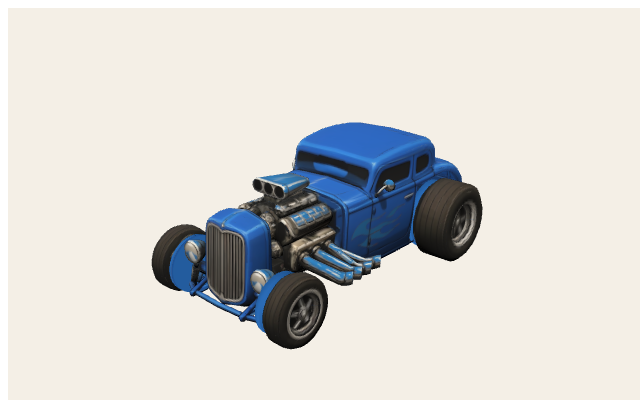
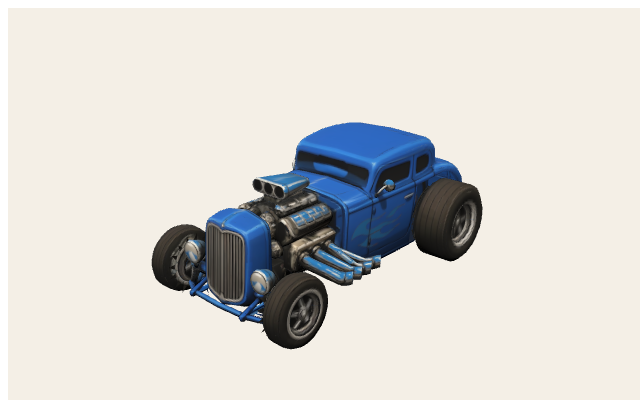
v0.3.239: Restore Donnerbüchse original hub faces behind segmented wheels
The blue well plugs did not match the pre-split car. Punch the welded tires fully and remount the original outboard hub/spoke BodyPaint faces just inboard of StockWheel so the rims still read as the old atlas.

diff --git a/tests/car-wheels.test.ts b/tests/car-wheels.test.ts
@@ -38,8 +38,6 @@ import {
 } from "../src/render/carWheels";
 import { collectWheelUvTriangles, shouldApplyGaragePaint } from "../src/render/loadCarGltf";
 import { groundContactMinY, stockWheelName } from "../src/render/stockWheels";
-import sharp from "sharp";
-import { isBlueBodyPixel } from "../src/render/paintAuthoredWhite";
 import { resolve } from "node:path";
 import { NodeIO } from "@gltf-transform/core";
 import { ALL_EXTENSIONS } from "@gltf-transform/extensions";
@@ -464,8 +462,12 @@ describe("stock wheels + Große Räder", () => {
         };
       });
     const leftover: Record<string, number> = {};
-    for (const h of hubs) leftover[h.name!] = 0;
-    const capXs: number[] = [];
+    const wellFaces: Record<string, { n: number; uMin: number; uMax: number; vMin: number; vMax: number }> = {};
+    for (const h of hubs) {
+      leftover[h.name!] = 0;
+      wellFaces[h.name!] = { n: 0, uMin: 1, uMax: 0, vMin: 1, vMax: 0 };
+    }
+    let syntheticCaps = 0;
     for (const mesh of doc.getRoot().listMeshes()) {
       if (mesh.getName()?.startsWith("StockWheel_")) continue;
       for (const prim of mesh.listPrimitives()) {
@@ -482,13 +484,14 @@ describe("stock wheels + Große Räder", () => {
           minZ = Math.min(minZ, v[2]!);
           maxZ = Math.max(maxZ, v[2]!);
         }
-        if (pos.getCount() === 66) {
-          capXs.push((minX + maxX) / 2);
+        if (pos.getCount() === 66 && maxX - minX < 0.5) {
+          syntheticCaps += 1;
           continue;
         }
-        if (maxZ - minZ < 3) continue;
         const idx = prim.getIndices();
+        const uv = prim.getAttribute("TEXCOORD_0");
         if (!idx) continue;
+        const compact = maxZ - minZ < 3;
         for (let t = 0; t < idx.getCount() / 3; t++) {
           const a = pos.getElement(idx.getScalar(t * 3), []);
           const b = pos.getElement(idx.getScalar(t * 3 + 1), []);
@@ -497,47 +500,33 @@ describe("stock wheels + Große Räder", () => {
           const cy = (a[1]! + b[1]! + c[1]!) / 3;
           const cz = (a[2]! + b[2]! + c[2]!) / 3;
           for (const h of hubs) {
-            const inner = Math.abs(h.cx) - h.hx;
-            if (Math.abs(cx) < inner - 0.01) continue;
-            if (Math.abs(cx - h.cx) <= h.hx && Math.abs(cy - h.cy) <= h.hy && Math.abs(cz - h.cz) <= h.hz) {
-              leftover[h.name!]! += 1;
+            const sign = Math.sign(h.cx);
+            const inYz = Math.abs(cy - h.cy) <= h.hy && Math.abs(cz - h.cz) <= h.hz;
+            const inX = Math.abs(cx - h.cx) <= h.hx + 0.04;
+            if (!inYz || !inX) continue;
+            if (sign * cx < sign * h.cx - 0.02) {
+              wellFaces[h.name!]!.n += 1;
+              if (uv) {
+                const u = uv.getElement(idx.getScalar(t * 3), []);
+                wellFaces[h.name!]!.uMin = Math.min(wellFaces[h.name!]!.uMin, u[0]!);
+                wellFaces[h.name!]!.uMax = Math.max(wellFaces[h.name!]!.uMax, u[0]!);
+                wellFaces[h.name!]!.vMin = Math.min(wellFaces[h.name!]!.vMin, u[1]!);
+                wellFaces[h.name!]!.vMax = Math.max(wellFaces[h.name!]!.vMax, u[1]!);
+              }
+              continue;
             }
+            if (compact) continue;
+            leftover[h.name!]! += 1;
           }
         }
       }
     }
-    const sortedCaps = capXs.sort((a, b) => a - b);
-    expect(sortedCaps).toHaveLength(4);
-    expect(sortedCaps[0]).toBeLessThan(-0.65);
-    expect(sortedCaps[1]).toBeLessThan(-0.65);
-    expect(sortedCaps[2]).toBeGreaterThan(0.65);
-    expect(sortedCaps[3]).toBeGreaterThan(0.65);
-    // Runtime comic materials are FrontSide — caps must wind toward the outside or they vanish.
-    for (const mesh of doc.getRoot().listMeshes()) {
-      if (mesh.getName()?.startsWith("StockWheel_")) continue;
-      for (const prim of mesh.listPrimitives()) {
-        const pos = prim.getAttribute("POSITION");
-        const idx = prim.getIndices();
-        if (!pos || !idx || pos.getCount() !== 66) continue;
-        const a = pos.getElement(idx.getScalar(0), []);
-        const b = pos.getElement(idx.getScalar(1), []);
-        const c = pos.getElement(idx.getScalar(2), []);
-        const nx = (b[1]! - a[1]!) * (c[2]! - a[2]!) - (b[2]! - a[2]!) * (c[1]! - a[1]!);
-        expect(Math.sign(nx), `cap at x=${a[0]}`).toBe(Math.sign(a[0]!));
-        const uv = prim.getAttribute("TEXCOORD_0")!.getElement(0, []);
-        const tex = prim.getMaterial()?.getBaseColorTexture()?.getImage();
-        expect(tex, "cap BodyPaint atlas").toBeTruthy();
-        const { data, info } = await sharp(Buffer.from(tex!)).ensureAlpha().raw().toBuffer({
-          resolveWithObject: true,
-        });
-        const x = Math.round(uv[0]! * (info.width - 1));
-        const y = Math.round(uv[1]! * (info.height - 1));
-        const i = (y * info.width + x) * info.channels;
-        expect(isBlueBodyPixel(data[i]!, data[i + 1]!, data[i + 2]!), `cap UV ${uv}`).toBe(true);
-      }
-    }
+    expect(syntheticCaps, "no flat body-blue well plugs").toBe(0);
     for (const h of hubs) {
-      expect(leftover[h.name!], `${h.name} chassis leftover`).toBeLessThan(10);
+      expect(leftover[h.name!], `${h.name} outboard leftover`).toBeLessThan(10);
+      expect(wellFaces[h.name!]!.n, `${h.name} original inner well`).toBeGreaterThan(15);
+      expect(wellFaces[h.name!]!.uMax - wellFaces[h.name!]!.uMin, `${h.name} well UV U`).toBeGreaterThan(0.15);
+      expect(wellFaces[h.name!]!.vMax - wellFaces[h.name!]!.vMin, `${h.name} well UV V`).toBeGreaterThan(0.15);
     }
   });
 

diff --git a/src/core/version.ts b/src/core/version.ts
@@ -1,5 +1,5 @@
 /** Mirrors package.json version — bump both on each implementation step. */
-export const APP_VERSION = "0.3.238";
+export const APP_VERSION = "0.3.239";
 
 /** Short player-visible credit — German UI, near version / Hilfe. */
 export const APP_CREDIT = "Mit KI erstellt · menschliche Anleitung";

diff --git a/.cursor/cheatsheets/car-donnerbuechse.md b/.cursor/cheatsheets/car-donnerbuechse.md
@@ -90,8 +90,8 @@ Orange boxes = mesh AABBs. Green dots = Teil **mount anchors** (`CAR_PART_LAYOUT
 <text x="48" y="188.0" text-anchor="end" font-size="11" font-family="ui-monospace,monospace" fill="#1a1a1a">1</text>
 <text x="48" y="114.0" text-anchor="end" font-size="11" font-family="ui-monospace,monospace" fill="#1a1a1a">2</text>
 <text x="48" y="40.0" text-anchor="end" font-size="11" font-family="ui-monospace,monospace" fill="#1a1a1a">3</text>
-<rect x="222.4" y="120.8" width="353.3" height="277.8" fill="#f08c0033" stroke="#f08c00" stroke-width="1.6"/>
-<text x="399.0" y="259.7" text-anchor="middle" font-size="10" font-family="ui-sans-serif,sans-serif" font-weight="700" fill="#1a1a1a">BodyPaint</text>
+<rect x="222.4" y="119.6" width="353.3" height="279.0" fill="#f08c0033" stroke="#f08c00" stroke-width="1.6"/>
+<text x="399.0" y="259.1" text-anchor="middle" font-size="10" font-family="ui-sans-serif,sans-serif" font-weight="700" fill="#1a1a1a">BodyPaint</text>
 <rect x="524.6" y="117.4" width="51.0" height="56.7" fill="#f08c0033" stroke="#f08c00" stroke-width="1.6"/>
 <text x="550.1" y="145.7" text-anchor="middle" font-size="10" font-family="ui-sans-serif,sans-serif" font-weight="700" fill="#1a1a1a">StockWheel_FR</text>
 <rect x="222.4" y="117.4" width="51.0" height="56.7" fill="#f08c0033" stroke="#f08c00" stroke-width="1.6"/>
@@ -181,8 +181,8 @@ Orange boxes = mesh AABBs. Green dots = Teil **mount anchors** (`CAR_PART_LAYOUT
 <text x="48" y="262.0" text-anchor="end" font-size="11" font-family="ui-monospace,monospace" fill="#1a1a1a">1</text>
 <text x="48" y="151.0" text-anchor="end" font-size="11" font-family="ui-monospace,monospace" fill="#1a1a1a">2</text>
 <text x="48" y="40.0" text-anchor="end" font-size="11" font-family="ui-monospace,monospace" fill="#1a1a1a">3</text>
-<rect x="181.8" y="196.5" width="429.2" height="167.4" fill="#f08c0033" stroke="#f08c00" stroke-width="1.6"/>
-<text x="396.4" y="280.2" text-anchor="middle" font-size="10" font-family="ui-sans-serif,sans-serif" font-weight="700" fill="#1a1a1a">BodyPaint</text>
+<rect x="181.8" y="196.5" width="431.1" height="169.2" fill="#f08c0033" stroke="#f08c00" stroke-width="1.6"/>
+<text x="397.3" y="281.1" text-anchor="middle" font-size="10" font-family="ui-sans-serif,sans-serif" font-weight="700" fill="#1a1a1a">BodyPaint</text>
 <rect x="528.7" y="284.0" width="87.6" height="85.0" fill="#f08c0033" stroke="#f08c00" stroke-width="1.6"/>
 <text x="572.4" y="326.5" text-anchor="middle" font-size="10" font-family="ui-sans-serif,sans-serif" font-weight="700" fill="#1a1a1a">StockWheel_FR</text>
 <rect x="528.7" y="284.0" width="87.6" height="85.0" fill="#f08c0033" stroke="#f08c00" stroke-width="1.6"/>
@@ -219,7 +219,7 @@ Orange boxes = mesh AABBs. Green dots = Teil **mount anchors** (`CAR_PART_LAYOUT
 
 | Node | Mesh | Prims | Verts | Center xyz | AABB min → max | Materials |
 | --- | --- | --- | --- | --- | --- | --- |
-| `BodyPaint` | `BodyPaint` | 6 | 4884 | (0, 0.8, -0.023) | (-1.03, 0.046, -1.9) → (1.03, 1.554, 1.854) | BodyPaint |
+| `BodyPaint` | `BodyPaint` | 6 | 5091 | (0, 0.792, -0.015) | (-1.03, 0.03, -1.9) → (1.03, 1.554, 1.87) | BodyPaint |
 | `StockWheel_FR` | `StockWheel_FR` | 1 | 397 | (0.881, 0.383, 1.517) | (0.732, 0, 1.134) → (1.03, 0.766, 1.9) | Tire |
 | `StockWheel_FL` | `StockWheel_FL` | 1 | 392 | (-0.881, 0.383, 1.517) | (-1.03, 0, 1.134) → (-0.732, 0.766, 1.9) | Tire |
 | `StockWheel_RL` | `StockWheel_RL` | 1 | 304 | (-0.952, 0.502, -1.223) | (-1.194, 0, -1.722) → (-0.71, 1.004, -0.725) | Tire |

diff --git a/.cursor/skills/tripo-3d-assets/pipeline.md b/.cursor/skills/tripo-3d-assets/pipeline.md
@@ -150,7 +150,7 @@ Same punch/remount contract as Bison/Käferkraft. Body: `blitz-pre-wheel-split.g
 
 ### Mesh segment detach/remount (Donnerbüchse wheels only)
 
-Same punch/remount as Blitz/Käferkraft. Body: `donnerbuechse-pre-wheel-segment.glb` (engine stays a second BodyPaint prim — no `StockEngine` node). Segment: `assets/tripo-out/donnerbuechse/segment-wheels-only-v1/`. Bake: `npm run cars:bake-donnerbuechse-segmented-wheels`. Punch **ground BodyPaint only** so side pipes are not carved with the front tires. Close punched wells with BodyPaint disks that wind **outboard** (runtime materials are FrontSide) and sample **authored body-blue** atlas texels (not cabin-shadow black). Runtime: skinny front + fat rear `StockWheel_*` roll/steer; Große Räder uniform-scales like Bison/Käferkraft.
+Same punch/remount as Blitz/Käferkraft. Body: `donnerbuechse-pre-wheel-segment.glb` (engine stays a second BodyPaint prim — no `StockEngine` node). Segment: `assets/tripo-out/donnerbuechse/segment-wheels-only-v1/`. Bake: `npm run cars:bake-donnerbuechse-segmented-wheels`. Punch **ground BodyPaint only** so side pipes are not carved with the front tires. Punch the welded tire volume, then remount the original **outboard hub/spoke faces** (pre-split BodyPaint UVs) just inboard of each `StockWheel` — that is the pre-segment look through the rim, not a flat body-blue disk. Runtime: skinny front + fat rear `StockWheel_*` roll/steer; Große Räder uniform-scales like Bison/Käferkraft.
 
 ## Failure modes
 
